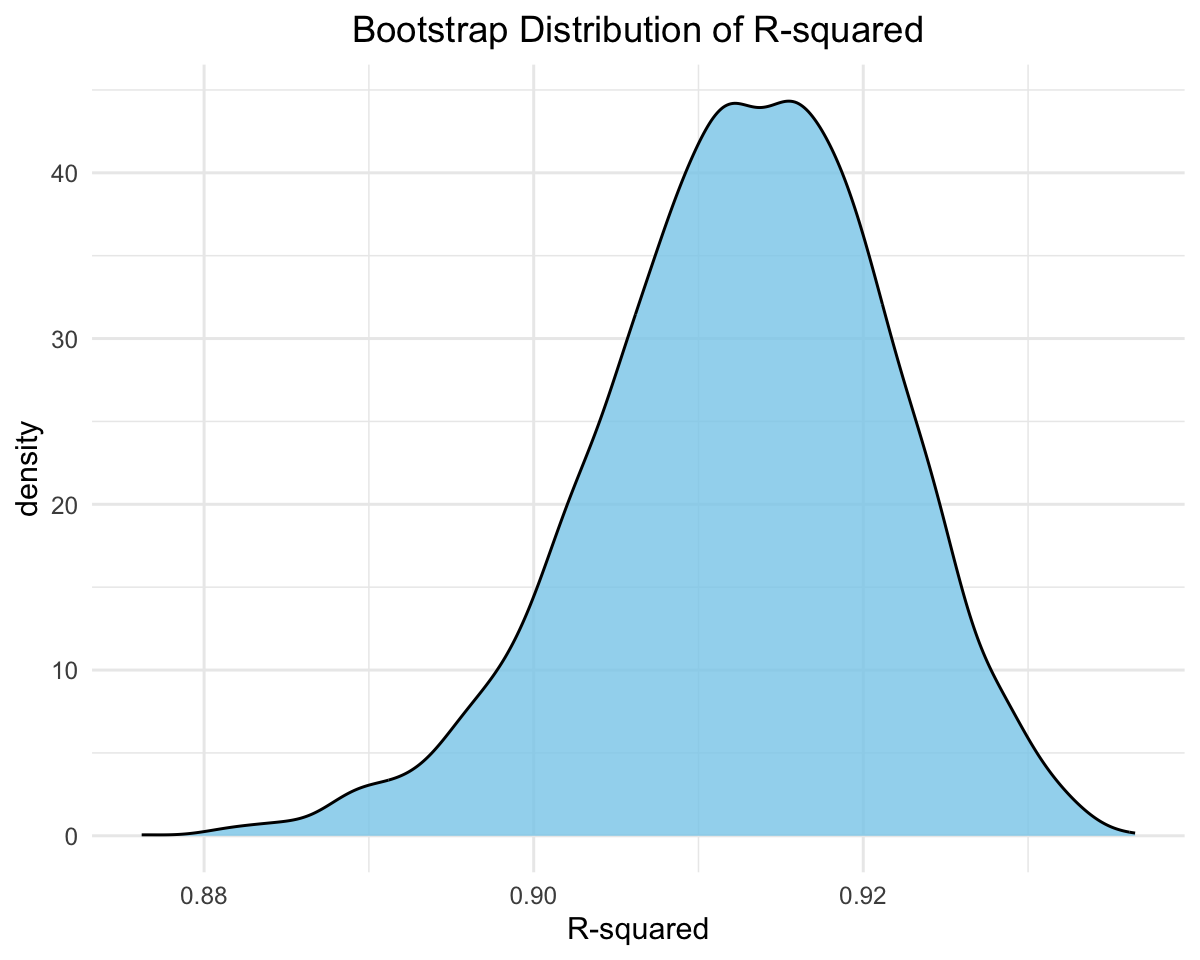
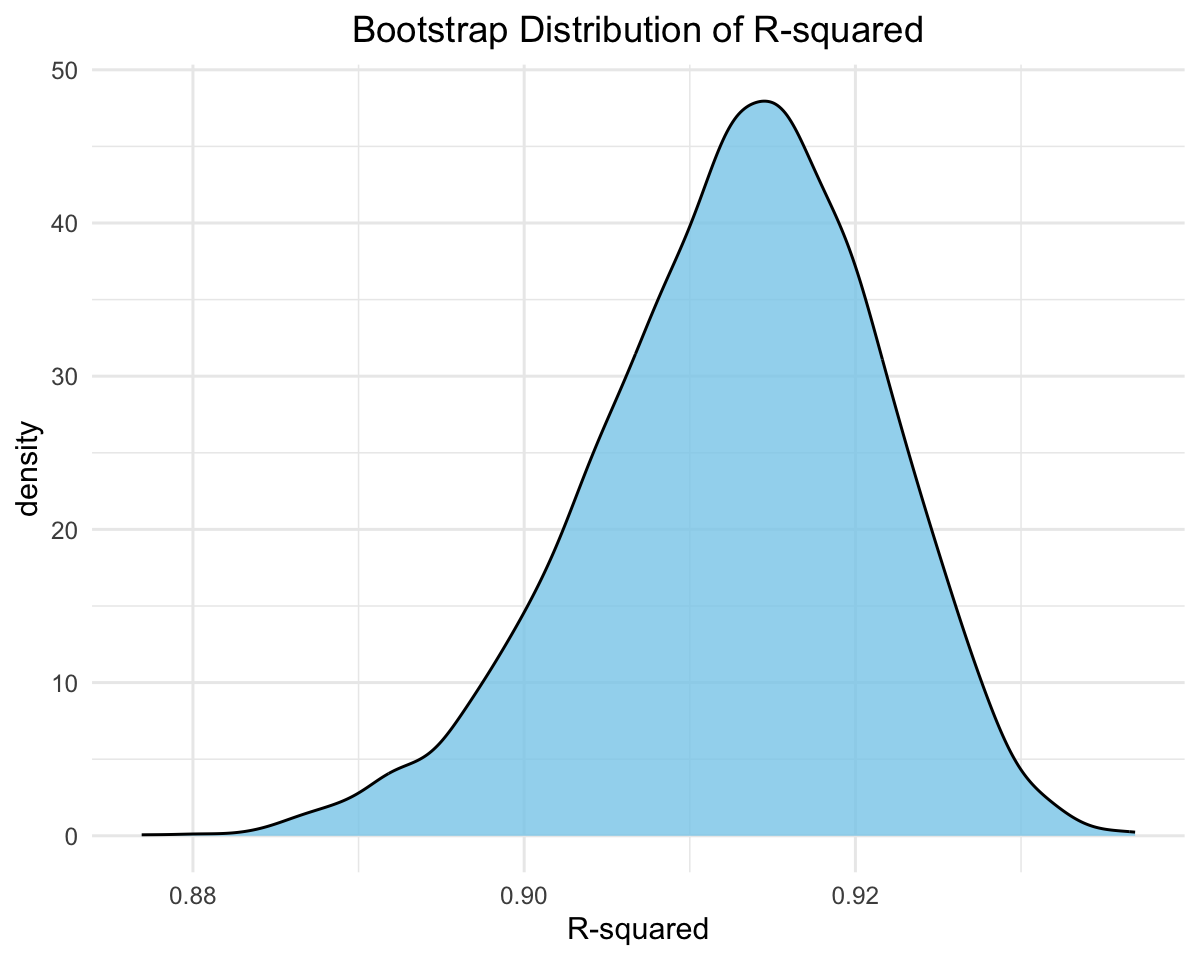
remove problem 3 table, knit the project

diff --git a/p8105_hw6_xh2601.md b/p8105_hw6_xh2601.md
@@ -257,16 +257,16 @@ bootstrap_weather
     ## # A tibble: 5,000 × 3
     ##    .id      r2 beta_ratio
     ##    <chr> <dbl>      <dbl>
-    ##  1 0001  0.919      -318.
-    ##  2 0002  0.929      -252.
-    ##  3 0003  0.922      -342.
-    ##  4 0004  0.915     -1277.
-    ##  5 0005  0.905      -348.
-    ##  6 0006  0.928      -245.
-    ##  7 0007  0.922      -238.
-    ##  8 0008  0.920      -521.
-    ##  9 0009  0.917     -1349.
-    ## 10 0010  0.907     -3664.
+    ##  1 0001  0.915      -377.
+    ##  2 0002  0.922      -549.
+    ##  3 0003  0.920      -322.
+    ##  4 0004  0.911      -215.
+    ##  5 0005  0.896      2400.
+    ##  6 0006  0.915      -540.
+    ##  7 0007  0.910      -907.
+    ##  8 0008  0.916      -243.
+    ##  9 0009  0.912      -991.
+    ## 10 0010  0.919      -275.
     ## # ℹ 4,990 more rows
 
 3.  Plot the distribution of your estimates, and describe these in
@@ -284,13 +284,14 @@ bootstrap_weather |>
 
 <img src="p8105_hw6_xh2601_files/figure-gfm/unnamed-chunk-11-1.png" width="90%" />
 
-The distribution of r_hat square in bootstrap samples is unimodal and
+The distribution of R-squared in bootstrap samples is unimodal and
 approximately symmetric around 0.913, and slightly left skewed. The
 distribution means the r_hat square estimates are relatively stable, so
 the linear model using tmin and prcp as predictors could explain about
 91% of changes in tmax.
 
 ``` r
+# density plot for beta ratio
 bootstrap_weather |> 
   ggplot(aes(x = beta_ratio)) +
   geom_density(fill = "skyblue", alpha = 0.8) +
@@ -301,34 +302,40 @@ bootstrap_weather |>
 
 <img src="p8105_hw6_xh2601_files/figure-gfm/unnamed-chunk-12-1.png" width="90%" />
 
-``` r
-bootstrap_weather |>
-  ggplot(aes(x = beta_ratio)) +
-  geom_density(fill = "skyblue", alpha = 0.8) +
-  coord_cartesian(ylim = c(0, 0.00001))
-```
+The bootstrap distribution of the beta ratio shows a sharp peak near 0,
+with extremely long tails on both sides of the density plot. The
+long-tailed shape occurs because precipitation (prcp) takes the value
+zero on most days in the original dataset, so many bootstrap samples
+contain little or no variation in prcp. In such samples, the estimated
+coefficient beta2 for prcp approaches zero, causing the ratio of beta1 /
+beta2 to explode to extremely large absolute values.
 
-<img src="p8105_hw6_xh2601_files/figure-gfm/unnamed-chunk-13-1.png" width="90%" />
+To visualize the central behavior of the ratio, the following histogram
+looks at only the middle 98% of the bootstrap distribution (the 1%–99%
+interval). Within this trimmed range, the majority of values cluster
+around a central peak, while the tails remain wide. This reflects
+instability in the denominator beta2, and the ratio is not a meaningful
+or interpretable relationship between the predictors tmax and prcp in
+this sample.
 
 ``` r
-lower = quantile(bootstrap_weather$beta_ratio, 0.01, na.rm = TRUE)
-upper = quantile(bootstrap_weather$beta_ratio, 0.99, na.rm = TRUE)
+# only plot between 1%-99% interval
+small_ratio = quantile(bootstrap_weather$beta_ratio, 0.01, na.rm = TRUE)
+large_ratio = quantile(bootstrap_weather$beta_ratio, 0.99, na.rm = TRUE)
 
 clean_data = bootstrap_weather |> 
-  filter(beta_ratio > lower, beta_ratio < upper)
+  filter(beta_ratio > small_ratio, beta_ratio < large_ratio)
 
 ggplot(clean_data, aes(beta_ratio)) +
-  geom_density(fill = "skyblue", alpha = 0.8)
+  geom_histogram(fill = "skyblue", alpha = 0.8) +
+  labs(
+    x = "Beta Ratio",
+    title = "Bootstrap Distribution of Beta Ratio (1% - 99% Interval)")
 ```
 
-<img src="p8105_hw6_xh2601_files/figure-gfm/unnamed-chunk-14-1.png" width="90%" />
+    ## `stat_bin()` using `bins = 30`. Pick better value with `binwidth`.
 
-``` r
-summary(bootstrap_weather$beta_ratio)
-```
-
-    ##      Min.   1st Qu.    Median      Mean   3rd Qu.      Max. 
-    ## -431425.8    -844.5    -498.4    -527.4    -311.4  738108.7
+<img src="p8105_hw6_xh2601_files/figure-gfm/unnamed-chunk-13-1.png" width="90%" />
 
 4.  Using the 5000 bootstrap estimates, identify the 2.5% and 97.5%
     quantiles to provide a 95% confidence interval
@@ -347,11 +354,11 @@ ci_results
     ## # A tibble: 1 × 4
     ##   r2_ci_lower r2_ci_upper beta_ratio_ci_lower beta_ratio_ci_upper
     ##         <dbl>       <dbl>               <dbl>               <dbl>
-    ## 1       0.893       0.928              -5475.               4805.
+    ## 1       0.894       0.928              -5201.               4005.
 
-The 95% confidence interval for R-squared is 0.8934253 to 0.9283329, the
-The 95% confidence interval for beta ratio is -5475.4617998 to
-4805.4665066.
+The 95% confidence interval for R-squared is 0.8937176 to 0.9275479, the
+The 95% confidence interval for beta ratio is -5201.1612096 to
+4005.0820406.
 
 ## Problem 3
 
@@ -360,6 +367,8 @@ The 95% confidence interval for beta ratio is -5475.4617998 to
     appropriate, check for the presence of missing data, etc.).
 
 ``` r
+# import data
+# convert some variables to factors
 birthweight_df = read_csv("data/birthweight.csv") |> 
   janitor::clean_names() |> 
   mutate(
@@ -378,6 +387,13 @@ birthweight_df = read_csv("data/birthweight.csv") |>
     ## ℹ Use `spec()` to retrieve the full column specification for this data.
     ## ℹ Specify the column types or set `show_col_types = FALSE` to quiet this message.
 
+``` r
+# check missing data in the dataset
+sum(is.na(birthweight_df))
+```
+
+    ## [1] 0
+
 2.  Propose a regression model for birthweight. This model may be based
     on a hypothesized structure for the factors that underly
     birthweight, on a data-driven model-building process, or a
@@ -385,25 +401,26 @@ birthweight_df = read_csv("data/birthweight.csv") |>
     plot of model residuals against fitted values – use add_predictions
     and add_residuals in making this plot.
 
-Birthweight is influenced by a combination of maternal physiological
-characteristics and pregnancy-related developmental factors. Maternal
-height and pre-pregnancy weight reflect long-term nutritional status and
-genetic influences on fetal growth. In addition, weight gain during
-pregnancy and gestational age in weeks are indicators of the adequacy of
-fetal development and duration of intrauterine growth. Consistent with
-findings reported in the
-[literature](https://pmc.ncbi.nlm.nih.gov/articles/PMC11608488/#:~:text=The%20study%20found%20that%20the%20following%20factors,*%20Prenatal%20care%20*%20Parental%20education%20levels),
+**Model building:** Birthweight is influenced by a combination of
+maternal physiological characteristics and pregnancy-related
+developmental factors. Maternal height and pre-pregnancy weight reflect
+long-term nutritional status and genetic influences on fetal growth. In
+addition, weight gain during pregnancy and gestational age in weeks are
+indicators of the adequacy of fetal development and duration of
+intrauterine growth. Consistent with findings reported in the
+[literature](https://pmc.ncbi.nlm.nih.gov/articles/PMC11608488/),
 maternal height, pre-pregnancy weight, and pregnancy weight gain were
 consistently associated with birthweight. Based on these hypothesized
-mechanisms and empirical support, I propose a regression model for
-birthweight using maternal pre-pregnancy BMI (**ppbmi**), mother’s
-weight gain during pregnancy in pounds (**wtgain**), and gestational age
-in weeks (**gaweeks**), as the predictors of baby’s birth weight in
-grams(**bwt**).
+mechanisms and empirical support, I propose a regression model using
+maternal pre-pregnancy BMI (**ppbmi**), mother’s weight gain during
+pregnancy in pounds (**wtgain**), and gestational age in weeks
+(**gaweeks**), as the predictors of baby’s birth weight in grams
+(**bwt**).
 
 ``` r
-birth_mod = lm(bwt ~ ppbmi + wtgain + gaweeks, data = birthweight_df)
-summary(birth_mod)
+# construct my model
+bwt_my_model = lm(bwt ~ ppbmi + wtgain + gaweeks, data = birthweight_df)
+summary(bwt_my_model)
 ```
 
     ## 
@@ -428,20 +445,152 @@ summary(birth_mod)
     ## F-statistic: 399.3 on 3 and 4338 DF,  p-value: < 2.2e-16
 
 ``` r
-birth_aug = birthweight_df |> 
-  add_predictions(birth_mod) |> 
-  add_residuals(birth_mod)
-
-birth_aug |> 
+# show a plot of model residuals against fitted values
+birthweight_df |> 
+  add_residuals(bwt_my_model) |> 
+  add_predictions(bwt_my_model) |> 
   ggplot(aes(x = pred, y = resid)) +
-  geom_point(alpha = 0.5) +
+  geom_point(alpha = 0.2) +
   geom_hline(yintercept = 0, linetype = "dashed") +
   labs(
-    x = "Fitted values",
+    x = "Fitted Values",
     y = "Residuals",
-    title = "Residuals vs Fitted Values for Birthweight Model"
-  ) +
-  theme_minimal()
+    title = "Residuals vs Fitted Values for Birth Weight Prediction Model"
+  )
 ```
 
-<img src="p8105_hw6_xh2601_files/figure-gfm/unnamed-chunk-18-1.png" width="90%" />
+<img src="p8105_hw6_xh2601_files/figure-gfm/unnamed-chunk-16-1.png" width="90%" />
+
+The plot shows that residuals appear to be randomly scattered around 0
+with no strong pattern, forming a roughly symmetric cloud.
+
+3.  Compare your model to two others:
+
+One using length at birth and gestational age as predictors (main
+effects only)
+
+``` r
+# construct model 1
+bwt_model1 = lm(bwt ~ blength + gaweeks, data = birthweight_df)
+summary(bwt_model1)
+```
+
+    ## 
+    ## Call:
+    ## lm(formula = bwt ~ blength + gaweeks, data = birthweight_df)
+    ## 
+    ## Residuals:
+    ##     Min      1Q  Median      3Q     Max 
+    ## -1709.6  -215.4   -11.4   208.2  4188.8 
+    ## 
+    ## Coefficients:
+    ##              Estimate Std. Error t value Pr(>|t|)    
+    ## (Intercept) -4347.667     97.958  -44.38   <2e-16 ***
+    ## blength       128.556      1.990   64.60   <2e-16 ***
+    ## gaweeks        27.047      1.718   15.74   <2e-16 ***
+    ## ---
+    ## Signif. codes:  0 '***' 0.001 '**' 0.01 '*' 0.05 '.' 0.1 ' ' 1
+    ## 
+    ## Residual standard error: 333.2 on 4339 degrees of freedom
+    ## Multiple R-squared:  0.5769, Adjusted R-squared:  0.5767 
+    ## F-statistic:  2958 on 2 and 4339 DF,  p-value: < 2.2e-16
+
+One using head circumference, length, sex, and all interactions
+(including the three-way interaction) between these
+
+``` r
+# construct model 2
+bwt_model2 = lm(bwt ~ bhead + blength + babysex + bhead*blength + bhead*babysex + blength*babysex + bhead*blength*babysex, data = birthweight_df)
+summary(bwt_model2)
+```
+
+    ## 
+    ## Call:
+    ## lm(formula = bwt ~ bhead + blength + babysex + bhead * blength + 
+    ##     bhead * babysex + blength * babysex + bhead * blength * babysex, 
+    ##     data = birthweight_df)
+    ## 
+    ## Residuals:
+    ##      Min       1Q   Median       3Q      Max 
+    ## -1132.99  -190.42   -10.33   178.63  2617.96 
+    ## 
+    ## Coefficients:
+    ##                          Estimate Std. Error t value Pr(>|t|)    
+    ## (Intercept)            -7176.8170  1264.8397  -5.674 1.49e-08 ***
+    ## bhead                    181.7956    38.0542   4.777 1.84e-06 ***
+    ## blength                  102.1269    26.2118   3.896 9.92e-05 ***
+    ## babysex2                6374.8684  1677.7669   3.800 0.000147 ***
+    ## bhead:blength             -0.5536     0.7802  -0.710 0.478012    
+    ## bhead:babysex2          -198.3932    51.0917  -3.883 0.000105 ***
+    ## blength:babysex2        -123.7729    35.1185  -3.524 0.000429 ***
+    ## bhead:blength:babysex2     3.8781     1.0566   3.670 0.000245 ***
+    ## ---
+    ## Signif. codes:  0 '***' 0.001 '**' 0.01 '*' 0.05 '.' 0.1 ' ' 1
+    ## 
+    ## Residual standard error: 287.7 on 4334 degrees of freedom
+    ## Multiple R-squared:  0.6849, Adjusted R-squared:  0.6844 
+    ## F-statistic:  1346 on 7 and 4334 DF,  p-value: < 2.2e-16
+
+4.  Make this comparison in terms of the cross-validated prediction
+    error; use crossv_mc and functions in purrr as appropriate.
+
+``` r
+# create functions to construct models
+model_bwt = function(df) {
+  lm(bwt ~ ppbmi + wtgain + gaweeks, data = df)
+}
+
+model_1 = function(df) {
+  lm(bwt ~ blength + gaweeks, data = df)
+}
+
+model_2 = function(df) {
+  lm(bwt ~ bhead + blength + babysex + bhead*blength + bhead*babysex + blength*babysex + bhead*blength*babysex, data = df)
+}
+```
+
+``` r
+# use crossv_mc() for cross validation
+# fit all three models for training set
+# get rmse for all three fits in testing set
+cv_df =
+  crossv_mc(birthweight_df, n = 100) |>
+  mutate(
+    train = map(train, as_tibble),
+    test = map(test, as_tibble),
+    fit_bwt = map(train, model_bwt),
+    fit_1 = map(train, model_1),
+    fit_2 = map(train, model_2),
+    rmse_bwt = map2_dbl(fit_bwt, test, \(mod, df) rmse(model = mod, data = df)),
+    rmse_1 = map2_dbl(fit_1, test, \(mod, df) rmse(model = mod, data = df)),
+    rmse_2 = map2_dbl(fit_2, test, \(mod, df) rmse(model = mod, data = df))
+  )
+
+# make comparison in plot
+cv_df |> 
+  select(starts_with("rmse")) |> 
+  rename(
+    "proposed model" = "rmse_bwt",
+    "model 1" = "rmse_1",
+    "model 2" = "rmse_2") |> 
+  pivot_longer(
+    everything(),
+    names_to = "model", 
+    values_to = "rmse") |> 
+  mutate(model = fct_inorder(model)) |>
+  ggplot(aes(x = model, y = rmse)) + geom_violin() +
+  labs(
+    x = "Model",
+    y = "Cross Validation Prediction Error",
+    title = "RMSE of Three Prediction Models"
+  )
+```
+
+<img src="p8105_hw6_xh2601_files/figure-gfm/unnamed-chunk-20-1.png" width="90%" />
+
+As shown in the RMSE distributions, Model 2 has the smallest prediction
+error, while my proposed model has the largest RMSE. This indicates that
+Model 2 provides the most accurate predictions of birth weight among the
+three models, suggesting that maternal characteristics alone are less
+informative for predicting baby birth weight compared with newborn
+measurements and their interactions.
